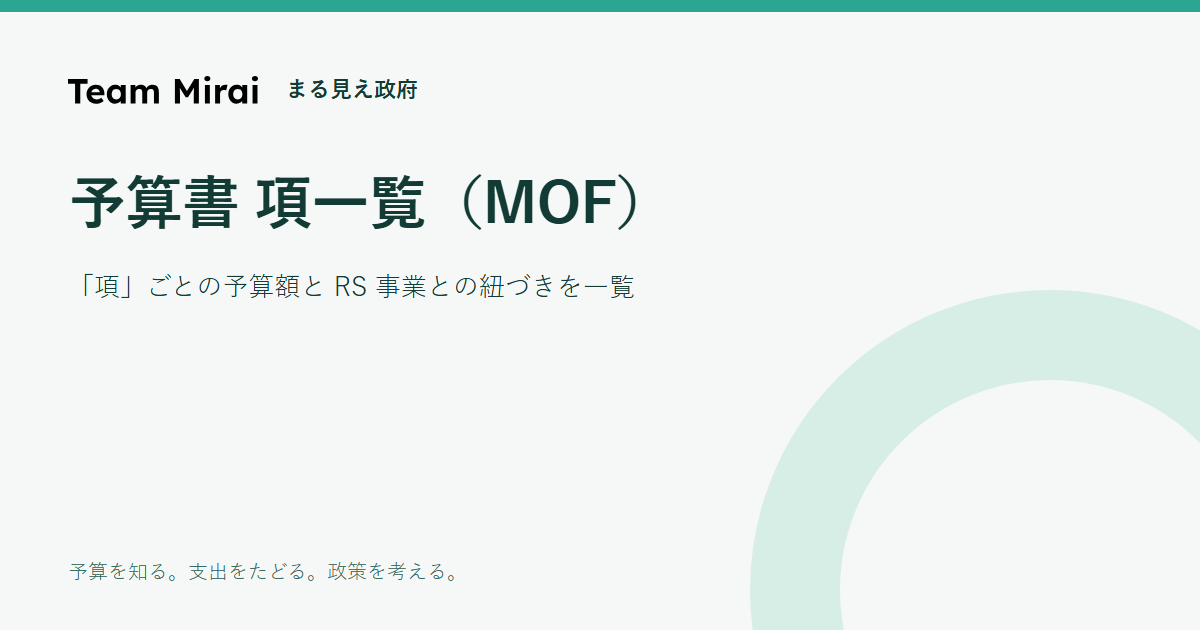
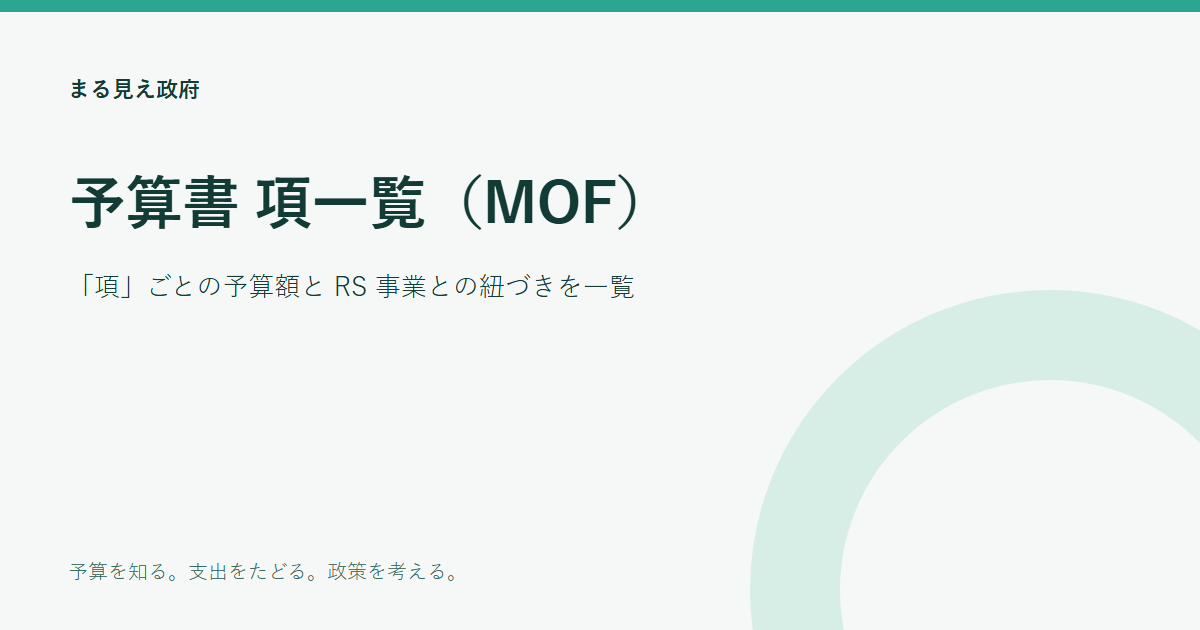
feat: ヘッダーのチームみらいロゴを外し、丸地のアイコン（Landmark）＋製品名のマークにする
OGP 画像からもワードマークを外して再生成。

Changed region(s): [[0.0617, 0.1206, 0.2158, 0.181], [0.2467, 0.1206, 0.37, 0.181]]

diff --git a/components/navigation/AppHeader.tsx b/components/navigation/AppHeader.tsx
@@ -1,12 +1,11 @@
 'use client';
 
 import { fiscalNavigationUrl } from '@/app/lib/rs-fiscal-year';
-import Image from 'next/image';
 import Link from 'next/link';
 import { createContext, useCallback, useContext, useId, useLayoutEffect, useMemo, useRef, useState, type Dispatch, type ReactNode, type SetStateAction } from 'react';
 import { createPortal } from 'react-dom';
 import { usePathname } from 'next/navigation';
-import { Sparkles } from 'lucide-react';
+import { Landmark, Sparkles } from 'lucide-react';
 import { cn } from '@/lib/utils';
 import { Button } from '@/components/ui/button';
 import { PageNavMenu } from './PageNavMenu';
@@ -145,9 +144,12 @@ function HeaderFrame({ current, config, slotRef, aiOpen, onToggleAi }: {
       )}
     >
       <div className="pointer-events-auto flex flex-wrap items-center gap-x-3 rounded-2xl border border-mirai-border bg-card px-4 shadow-xs sm:h-12 sm:flex-nowrap">
-        <Link href="/" className="flex h-12 shrink-0 items-center gap-3 transition-opacity hover:opacity-80" aria-label={`${PRODUCT_NAME} トップ`}>
-          <Image src="/logos/team-mirai-wordmark.svg" alt="チームみらい" width={110} height={17} className="h-[17px] w-auto" priority />
-          <span className="hidden border-l border-mirai-border pl-3 text-sm font-bold text-mirai-text lg:inline">{PRODUCT_NAME}</span>
+        {/* ブランドマーク。チームみらいのワードマークはいったん外し、丸地のアイコン＋製品名にする */}
+        <Link href="/" className="flex h-12 shrink-0 items-center gap-2 transition-opacity hover:opacity-80" aria-label={`${PRODUCT_NAME} トップ`}>
+          <span aria-hidden="true" className="flex size-7 items-center justify-center rounded-full bg-mirai-gradient text-mirai-text">
+            <Landmark className="size-4" strokeWidth={2.25} />
+          </span>
+          <span className="text-sm font-bold text-mirai-text">{PRODUCT_NAME}</span>
         </Link>
 
         <nav ref={navRef} aria-label="主要ビュー" className="relative ml-2 hidden min-w-0 items-center gap-0.5 overflow-hidden md:flex">

diff --git a/scripts/generate-social-images.ts b/scripts/generate-social-images.ts
@@ -1,4 +1,4 @@
-import { mkdir, readFile } from 'node:fs/promises';
+import { mkdir } from 'node:fs/promises';
 import { chromium } from '@playwright/test';
 import { SHARE_PAGES, socialImagePath } from '../app/lib/page-metadata';
 import { PRODUCT_NAME } from '../app/lib/product';
@@ -6,7 +6,6 @@ import { PRODUCT_NAME } from '../app/lib/product';
 const escape = (s: string) => s.replaceAll('&', '&amp;').replaceAll('<', '&lt;').replaceAll('>', '&gt;');
 async function main() {
   await mkdir('public/og', { recursive: true });
-  const logo = await readFile('public/logos/team-mirai-wordmark.svg', 'utf8');
   const browser = await chromium.launch();
   try {
     const page = await browser.newPage({ viewport: { width: 1200, height: 630 }, deviceScaleFactor: 1 });
@@ -18,7 +17,7 @@ async function main() {
         h1{position:relative;max-width:1030px;font-size:58px;line-height:1.4;margin:56px 0 20px;letter-spacing:-1px}
         p{position:relative;max-width:1000px;font-size:26px;line-height:1.7;margin:0}footer{position:absolute;bottom:42px;font-size:20px;color:#376c60}
         .art{position:absolute;right:-150px;bottom:-260px;width:600px;height:600px;border:90px solid #d7eee6;border-radius:50%;z-index:0}
-      </style><main><div class="art"></div><header>${logo}<span>${PRODUCT_NAME}</span></header><h1>${escape(item.label)}</h1><p>${escape(item.description)}</p><footer>予算を知る。支出をたどる。政策を考える。</footer></main></html>`);
+      </style><main><div class="art"></div><header><span>${PRODUCT_NAME}</span></header><h1>${escape(item.label)}</h1><p>${escape(item.description)}</p><footer>予算を知る。支出をたどる。政策を考える。</footer></main></html>`);
       await page.evaluate(() => document.fonts.ready);
       await page.screenshot({ path: `public${socialImagePath(item.href)}` });
     }
